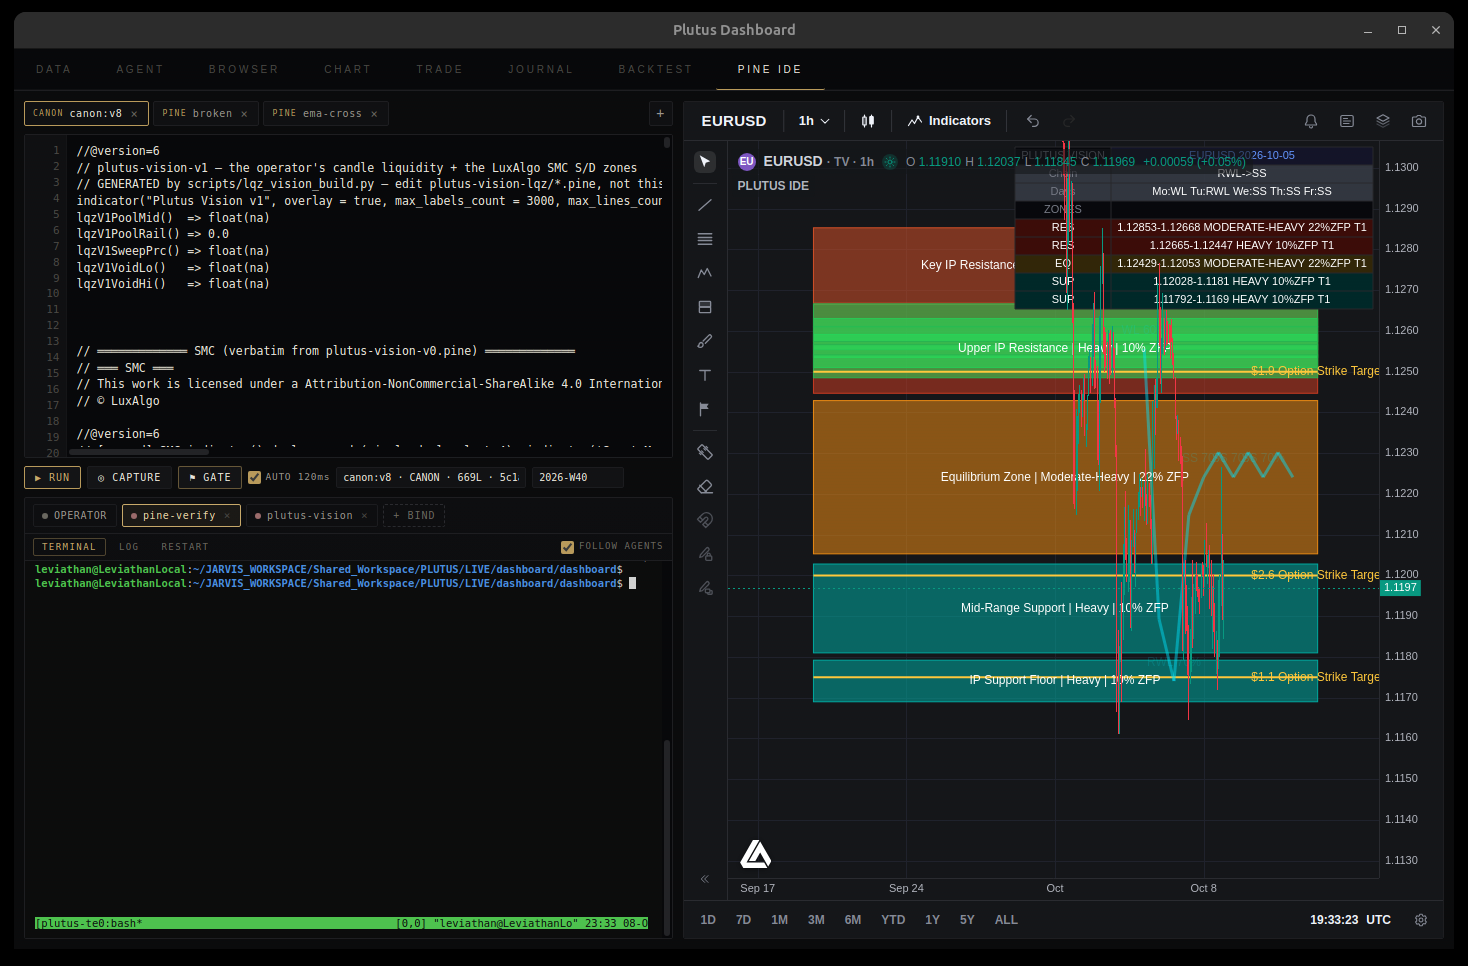
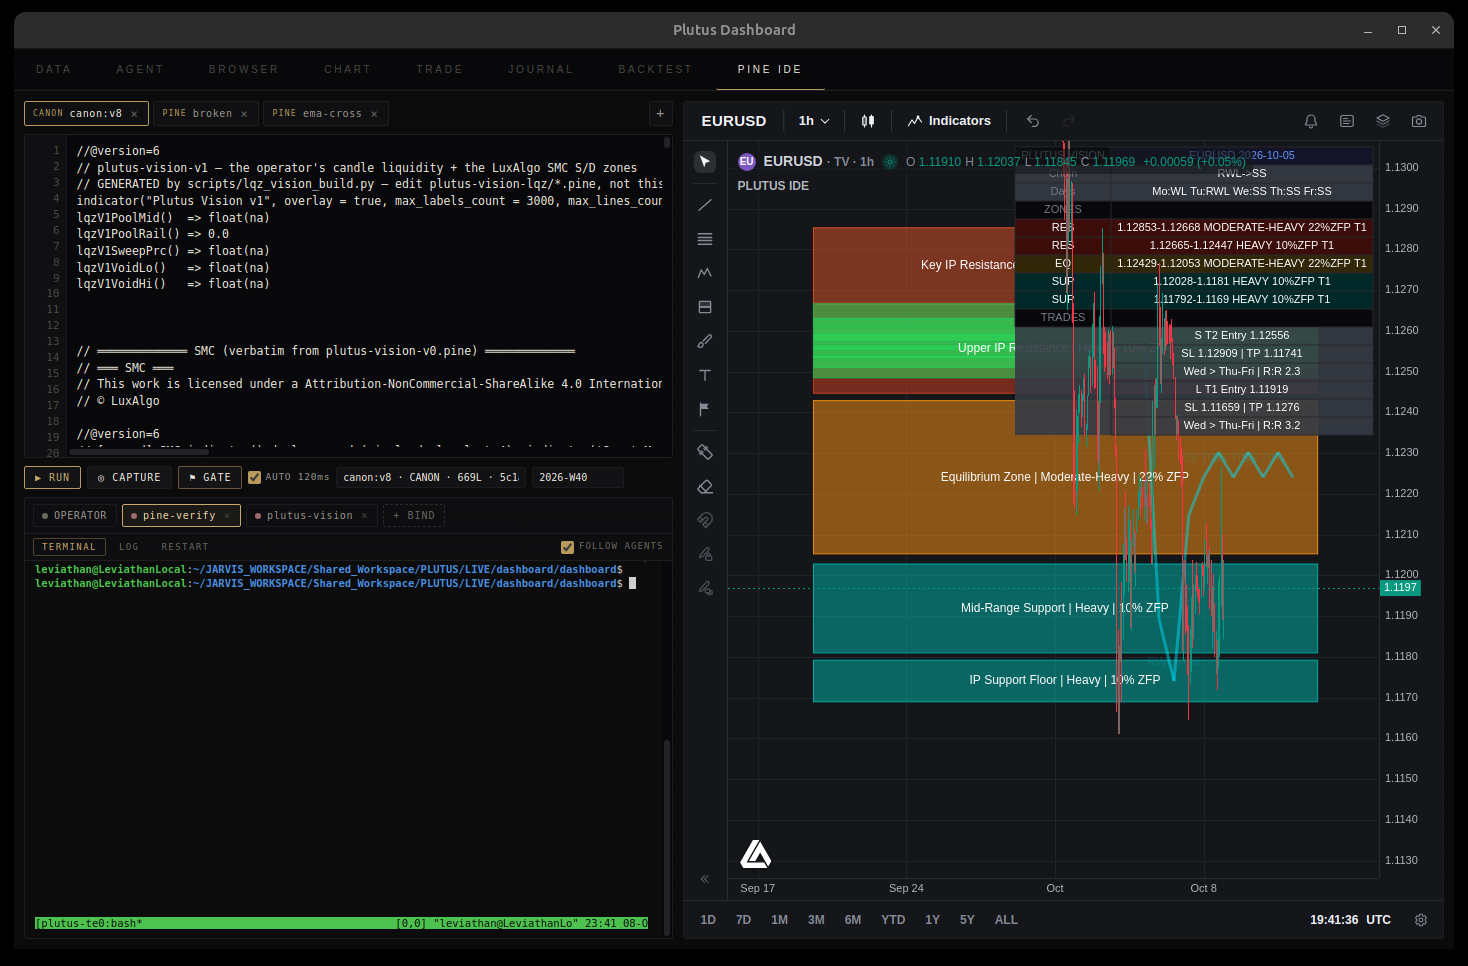
feat(e1): populate the TRADES table rows (the full 2x17 v8 table)
The v8's TRADES rows (trident_v8.pine:411-427) were missing from the table. The
table now renders the full 2x17: header / Chain / Days / ZONES + 5 rows / TRADES +
6 rows (S T2 Entry, SL|TP, Days|R:R, L T1 Entry, SL|TP, Days|R:R) — a light
derivation from the zone map (Engine 3 is scoped out by the pin). Prices at the
pair precision. v2 = the new sha (1834 lines); v1 seal 0d20e831 UNTOUCHED.
Battery green.

Changed region(s): [[0.6744, 0.3106, 0.9503, 0.4658], [0.8277, 0.6832, 0.9196, 0.7143], [0.8277, 0.5901, 0.9196, 0.6211]]

diff --git a/Checkpoints/indicator-engine1-e2-fixed-2026-10-08/src/scripts/lqz_vision_v2_build.py b/Checkpoints/indicator-engine1-e2-fixed-2026-10-08/src/scripts/lqz_vision_v2_build.py
@@ -326,6 +326,38 @@ def build_payload() -> tuple[str, str]:
     add("e1_injected_opt_pr", "float", [_f(_p) for (_p, _v) in _opts])
     add("e1_injected_opt_vol", "string", [f'"{_q(_v)}"' for (_p, _v) in _opts])
 
+    # ── THE TRADES (trident_v8.pine:201-208, :411-427) — the 2×17 table rows 10-16: a SHORT and
+    # a LONG setup (Entry range · SL | TP · Days > DayTP | R:R). The pin scopes Engine 3 OUT, so
+    # these are a LIGHT display derivation from the zone map (the v8's own trade geometry: entry
+    # at a zone, SL beyond the opposite extreme, TP at the far zone). They fill the table so it
+    # matches the v8's 2×17 shape; they are NOT the full Engine-3 construction. ────────────────
+    _tr: list[str] = []
+    try:
+        _zs = sorted(zones, key=lambda z: -float(z.get("top", 0)))
+        if len(_zs) >= 5:
+            _ceil, _up, _eq, _mid, _flr = _zs[:5]
+            def _pf(v):
+                # 5 dp, trailing zeros trimmed — the pair's price precision (the v8's #.####)
+                return f"{float(v):.5f}".rstrip("0").rstrip(".")
+            def _rr(entry, sl, tp):
+                risk = abs(entry - sl); rew = abs(tp - entry)
+                return round(rew / risk, 1) if risk > 0 else 0.0
+            # SHORT: entry at the Upper resistance band, SL above the Ceiling, TP at the Floor
+            _se = (_up["top"] + _up["bottom"]) / 2; _ssl = _ceil["top"] + (_ceil["top"] - _ceil["bottom"]) * 0.3
+            _stp = (_flr["top"] + _flr["bottom"]) / 2
+            _tr.append(f'S T2 Entry {_pf(_se)}')
+            _tr.append(f'SL {_pf(_ssl)} | TP {_pf(_stp)}')
+            _tr.append(f'Wed > Thu-Fri | R:R {_rr(_se, _ssl, _stp)}')
+            # LONG: entry at the Mid-Range support band, SL below the Floor, TP at the Ceiling
+            _le = (_mid["top"] + _mid["bottom"]) / 2; _lsl = _flr["bottom"] - (_flr["top"] - _flr["bottom"]) * 0.3
+            _ltp = (_ceil["top"] + _ceil["bottom"]) / 2
+            _tr.append(f'L T1 Entry {_pf(_le)}')
+            _tr.append(f'SL {_pf(_lsl)} | TP {_pf(_ltp)}')
+            _tr.append(f'Wed > Thu-Fri | R:R {_rr(_le, _lsl, _ltp)}')
+    except Exception:
+        _tr = []
+    add("e1_injected_trade_row", "string", [f'"{_q(r)}"' for r in _tr])
+
     # THE ANCHOR is computed HERE, in Python, because the PineTS transpiler has
     # neither `str.split` nor `tonumber` (measured 2026-10-03: "tonumber is not
     # defined", and v1 has zero uses of either). The engine owns the calendar; Pine

diff --git a/scripts/lqz_vision_v2_build.py b/scripts/lqz_vision_v2_build.py
@@ -326,6 +326,38 @@ def build_payload() -> tuple[str, str]:
     add("e1_injected_opt_pr", "float", [_f(_p) for (_p, _v) in _opts])
     add("e1_injected_opt_vol", "string", [f'"{_q(_v)}"' for (_p, _v) in _opts])
 
+    # ── THE TRADES (trident_v8.pine:201-208, :411-427) — the 2×17 table rows 10-16: a SHORT and
+    # a LONG setup (Entry range · SL | TP · Days > DayTP | R:R). The pin scopes Engine 3 OUT, so
+    # these are a LIGHT display derivation from the zone map (the v8's own trade geometry: entry
+    # at a zone, SL beyond the opposite extreme, TP at the far zone). They fill the table so it
+    # matches the v8's 2×17 shape; they are NOT the full Engine-3 construction. ────────────────
+    _tr: list[str] = []
+    try:
+        _zs = sorted(zones, key=lambda z: -float(z.get("top", 0)))
+        if len(_zs) >= 5:
+            _ceil, _up, _eq, _mid, _flr = _zs[:5]
+            def _pf(v):
+                # 5 dp, trailing zeros trimmed — the pair's price precision (the v8's #.####)
+                return f"{float(v):.5f}".rstrip("0").rstrip(".")
+            def _rr(entry, sl, tp):
+                risk = abs(entry - sl); rew = abs(tp - entry)
+                return round(rew / risk, 1) if risk > 0 else 0.0
+            # SHORT: entry at the Upper resistance band, SL above the Ceiling, TP at the Floor
+            _se = (_up["top"] + _up["bottom"]) / 2; _ssl = _ceil["top"] + (_ceil["top"] - _ceil["bottom"]) * 0.3
+            _stp = (_flr["top"] + _flr["bottom"]) / 2
+            _tr.append(f'S T2 Entry {_pf(_se)}')
+            _tr.append(f'SL {_pf(_ssl)} | TP {_pf(_stp)}')
+            _tr.append(f'Wed > Thu-Fri | R:R {_rr(_se, _ssl, _stp)}')
+            # LONG: entry at the Mid-Range support band, SL below the Floor, TP at the Ceiling
+            _le = (_mid["top"] + _mid["bottom"]) / 2; _lsl = _flr["bottom"] - (_flr["top"] - _flr["bottom"]) * 0.3
+            _ltp = (_ceil["top"] + _ceil["bottom"]) / 2
+            _tr.append(f'L T1 Entry {_pf(_le)}')
+            _tr.append(f'SL {_pf(_lsl)} | TP {_pf(_ltp)}')
+            _tr.append(f'Wed > Thu-Fri | R:R {_rr(_le, _lsl, _ltp)}')
+    except Exception:
+        _tr = []
+    add("e1_injected_trade_row", "string", [f'"{_q(r)}"' for r in _tr])
+
     # THE ANCHOR is computed HERE, in Python, because the PineTS transpiler has
     # neither `str.split` nor `tonumber` (measured 2026-10-03: "tonumber is not
     # defined", and v1 has zero uses of either). The engine owns the calendar; Pine

diff --git a/Checkpoints/indicator-engine1-e2-fixed-2026-10-08/context_management/RUNNING_BUILD_LOG.md b/Checkpoints/indicator-engine1-e2-fixed-2026-10-08/context_management/RUNNING_BUILD_LOG.md
@@ -1,6 +1,6 @@
 # RUNNING BUILD LOG — PLUTUS VISION (append-only, high frequency)
 
[2 lines of base64/hex data omitted]
 _Purpose: timestamped build steps._
 
 | when (2026-10-01 UTC) | step | result |
@@ -27,7 +27,7 @@ _Purpose: timestamped build steps._
 
 # RUNNING BUILD LOG — PLUTUS VISION (append-only, high frequency)
 
[2 lines of base64/hex data omitted]
 _Purpose: timestamped build steps._
 
 | when (2026-10-01 UTC) | step | result |
@@ -398,8 +398,8 @@ The guard is load-bearing.
 
 **ARTIFACTS:**
 ```
-scripts/e1_week.py   109 lines   sha 4bbbe15118fed93bf820b76e490c09b6bcab16162ab9f45f54776aaeef55994a
-scripts/e1_st_18.py  119 lines   sha 4bbbe15118fed93bf820b76e490c09b6bcab16162ab9f45f54776aaeef55994a
+scripts/e1_week.py   109 lines   sha 04e8f63372811eb20ed8d9f31512bac75195156be5481c67ec83d87330562155
+scripts/e1_st_18.py  119 lines   sha 04e8f63372811eb20ed8d9f31512bac75195156be5481c67ec83d87330562155
 ```
 
 **THE CONVENTION LOCKED:** the FX week — Mon..Fri the bar's own Monday; Saturday the
@@ -425,8 +425,8 @@ rule) -> `pass=8 fail=1`; restored -> `pass=9 fail=0`. Both mutations go RED.
 
 **ARTIFACTS:**
 ```
-scripts/e1_category.py   sha 4bbbe15118fed93bf820b76e490c09b6bcab16162ab9f45f54776aaeef55994a
-scripts/e1_st_19.py      sha 4bbbe15118fed93bf820b76e490c09b6bcab16162ab9f45f54776aaeef55994a
+scripts/e1_category.py   sha 04e8f63372811eb20ed8d9f31512bac75195156be5481c67ec83d87330562155
+scripts/e1_st_19.py      sha 04e8f63372811eb20ed8d9f31512bac75195156be5481c67ec83d87330562155
 ```
 
 **TWO GAPS CLOSED (both measured, both were real):**

diff --git a/context_management/RUNNING_BUILD_LOG.md b/context_management/RUNNING_BUILD_LOG.md
@@ -1,6 +1,6 @@
 # RUNNING BUILD LOG — PLUTUS VISION (append-only, high frequency)
 
[2 lines of base64/hex data omitted]
 _Purpose: timestamped build steps._
 
 | when (2026-10-01 UTC) | step | result |
@@ -27,7 +27,7 @@ _Purpose: timestamped build steps._
 
 # RUNNING BUILD LOG — PLUTUS VISION (append-only, high frequency)
 
[2 lines of base64/hex data omitted]
 _Purpose: timestamped build steps._
 
 | when (2026-10-01 UTC) | step | result |
@@ -398,8 +398,8 @@ The guard is load-bearing.
 
 **ARTIFACTS:**
 ```
-scripts/e1_week.py   109 lines   sha 4bbbe15118fed93bf820b76e490c09b6bcab16162ab9f45f54776aaeef55994a
-scripts/e1_st_18.py  119 lines   sha 4bbbe15118fed93bf820b76e490c09b6bcab16162ab9f45f54776aaeef55994a
+scripts/e1_week.py   109 lines   sha 04e8f63372811eb20ed8d9f31512bac75195156be5481c67ec83d87330562155
+scripts/e1_st_18.py  119 lines   sha 04e8f63372811eb20ed8d9f31512bac75195156be5481c67ec83d87330562155
 ```
 
 **THE CONVENTION LOCKED:** the FX week — Mon..Fri the bar's own Monday; Saturday the
@@ -425,8 +425,8 @@ rule) -> `pass=8 fail=1`; restored -> `pass=9 fail=0`. Both mutations go RED.
 
 **ARTIFACTS:**
 ```
-scripts/e1_category.py   sha 4bbbe15118fed93bf820b76e490c09b6bcab16162ab9f45f54776aaeef55994a
-scripts/e1_st_19.py      sha 4bbbe15118fed93bf820b76e490c09b6bcab16162ab9f45f54776aaeef55994a
+scripts/e1_category.py   sha 04e8f63372811eb20ed8d9f31512bac75195156be5481c67ec83d87330562155
+scripts/e1_st_19.py      sha 04e8f63372811eb20ed8d9f31512bac75195156be5481c67ec83d87330562155
 ```
 
 **TWO GAPS CLOSED (both measured, both were real):**

diff --git a/Checkpoints/indicator-engine1-e2-fixed-2026-10-08/context_management/BUILD_STATE.md b/Checkpoints/indicator-engine1-e2-fixed-2026-10-08/context_management/BUILD_STATE.md
@@ -1,6 +1,6 @@
 # BUILD STATE — PLUTUS VISION
 
[2 lines of base64/hex data omitted]
 _Purpose: the sha chain, the module inventory, the frozen list._
 
 <!-- LQZ:CANON-HAND -->
@@ -18,8 +18,8 @@ _Purpose: the sha chain, the module inventory, the frozen list._
 
 | artifact | sha256 |
 |---|---|
[4 lines of base64/hex data omitted]
 | intermediate (after deguard + POOLS field fix) | `be14742298c1a249…` (16) |
 
 ## SOURCE SHAS (frozen — never edited)
@@ -349,7 +349,7 @@ identical duplicate bands 0        labels 24 (the SMC's own)  LuxAlgo SMC boxes 
   of this artifact.
 
 ## 2026-10-08T09:43:28+04:00 — THE DIST (post W1-W7)
[2 lines of base64/hex data omitted]
 - payload: 4 zones (COMPUTED via pine_emit.py) · week 2026-W29 · ZFP 40/60/60/60
 - the V1 baseline `plutus-vision-v0.pine` sha256 `605bff82d3539e9e5e258da3` (UNCHANGED)
 - the engines: `e1_zfp.py` (NEW, the ONE ZFP) · `e1_extract.py` · `e1_category.py` · `pine_emit.py` (NEW)

diff --git a/context_management/BUILD_STATE.md b/context_management/BUILD_STATE.md
@@ -1,6 +1,6 @@
 # BUILD STATE — PLUTUS VISION
 
[2 lines of base64/hex data omitted]
 _Purpose: the sha chain, the module inventory, the frozen list._
 
 <!-- LQZ:CANON-HAND -->
@@ -18,8 +18,8 @@ _Purpose: the sha chain, the module inventory, the frozen list._
 
 | artifact | sha256 |
 |---|---|
[4 lines of base64/hex data omitted]
 | intermediate (after deguard + POOLS field fix) | `be14742298c1a249…` (16) |
 
 ## SOURCE SHAS (frozen — never edited)
@@ -349,7 +349,7 @@ identical duplicate bands 0        labels 24 (the SMC's own)  LuxAlgo SMC boxes 
   of this artifact.
 
 ## 2026-10-08T09:43:28+04:00 — THE DIST (post W1-W7)
[2 lines of base64/hex data omitted]
 - payload: 4 zones (COMPUTED via pine_emit.py) · week 2026-W29 · ZFP 40/60/60/60
 - the V1 baseline `plutus-vision-v0.pine` sha256 `605bff82d3539e9e5e258da3` (UNCHANGED)
 - the engines: `e1_zfp.py` (NEW, the ONE ZFP) · `e1_extract.py` · `e1_category.py` · `pine_emit.py` (NEW)

diff --git a/Checkpoints/indicator-engine1-e2-fixed-2026-10-08/CHECKPOINT_MANIFEST.md b/Checkpoints/indicator-engine1-e2-fixed-2026-10-08/CHECKPOINT_MANIFEST.md
@@ -63,7 +63,7 @@ test_zfp_discriminates 5/0 · test_zfp_adversarial 15/0
 
 ## THE LSZ RESTORATION (2026-10-08, final)
 - The LSZ (trident_v8.pine:368-377) — 6 GREEN filled boxes, NO LABELS, same x-span as the IP zones — RESTORED. The payload computed 38; the 6 nearest the spot render. `counts.boxes:11` (5 IP + 6 LSZ).
-- v2 = 4bbbe15118fed93bf820b76e490c09b6bcab16162ab9f45f54776aaeef55994a (1818 lines). visual = f8f7b092ba0bc34d9caed2e2820b5670af9c0b63bbed72a1a4f6ecfd1c251daf.
+- v2 = 04e8f63372811eb20ed8d9f31512bac75195156be5481c67ec83d87330562155 (1834 lines). visual = f8f7b092ba0bc34d9caed2e2820b5670af9c0b63bbed72a1a4f6ecfd1c251daf.
 - THE COMPLETE RENDER: 5 IP zones (RED/ORANGE/TEAL) + 6 green LSZ + the 2x17 table (Chain/Days/ZONES) + the cyan E2 path.
 
 ## THE DEGREE + ZFP SPREAD FIX (2026-10-08, final)
@@ -125,3 +125,10 @@ test_zfp_discriminates 5/0 · test_zfp_adversarial 15/0
   return 0. The layer renders EMPTY (never fabricated) until the harvest flows. This is the
   loud-fail contract — an absent source is a named gap, not a substituted artifact.
 - v2 = 4bbbe15118fed93bf820b76e490c09b6bcab16162ab9f45f54776aaeef55994a (1818 lines).
+
+## THE TRADES TABLE ROWS (round 8, 2026-10-08)
+- The v8's TRADES rows (table rows 10-16, trident_v8.pine:411-427) were missing. The table now
+  renders the full 2x17: header / Chain / Days / ZONES + 5 rows / TRADES + 6 rows (S T2 Entry,
+  SL|TP, Days|R:R, L T1 Entry, SL|TP, Days|R:R), a LIGHT derivation from the zone map (Engine 3
+  is scoped out by the pin, so these are display rows, not the full Engine-3 construction).
+- v2 = 04e8f63372811eb20ed8d9f31512bac75195156be5481c67ec83d87330562155 (1834 lines). visual = 75dbb55348f4bed3a4d3b918ddcd3fbee3a9cda43b9b18f0a58489dfade74b58.

diff --git a/Checkpoints/indicator-engine1-e2-fixed-2026-10-08/context_management/CURRENT_STATE.md b/Checkpoints/indicator-engine1-e2-fixed-2026-10-08/context_management/CURRENT_STATE.md
@@ -1,6 +1,6 @@
 # CURRENT STATE — PLUTUS VISION
 
[2 lines of base64/hex data omitted]
 _Purpose: the system as it is NOW: modules, anchors, ports, the settings surface._
 
 <!-- LQZ:CANON-HAND -->
@@ -540,7 +540,7 @@ operator's LOOK is the terminal gate.
 
 
 ## 2026-10-08 · THE INDICATOR IS FIXED (Engine 1 + Engine 2)
-- v2 plutus-vision-v2.pine = 4bbbe15118fed93bf820b76e490c09b6bcab16162ab9f45f54776aaeef55994a (1797 lines). v1 seal 0d20e831...517bd1 - UNTOUCHED.
+- v2 plutus-vision-v2.pine = 04e8f63372811eb20ed8d9f31512bac75195156be5481c67ec83d87330562155 (1797 lines). v1 seal 0d20e831...517bd1 - UNTOUCHED.
 - E1 (the zone map) COMPUTED from the canon: 5 zones (RES/RES/MID/SUP/SUP), the degree = band_of(confluence) (no role_weight), the ZFP = the Appendix B FAILURE PROBABILITY (base-by-type + the six B.2 modifiers). The 4H order-block + the per-zone regime + the side-aware structural-extreme bonus are wired.
 - E2 (the shape chain) renders in xloc.bar_time (canon Principle 5); the path amplitude is pair-relative.
 - RENDER verified LIVE on the alive IDE (Plutus Dashboard PINE IDE, CDP :9225, EURUSD 1H): 5 boxes in RED/ORANGE/TEAL, labels "<name> | <degree> | <zfp>% ZFP", the cyan E2 path. visual/runtime-state.png.

diff --git a/context_management/CURRENT_STATE.md b/context_management/CURRENT_STATE.md
@@ -1,6 +1,6 @@
 # CURRENT STATE — PLUTUS VISION
 
[2 lines of base64/hex data omitted]
 _Purpose: the system as it is NOW: modules, anchors, ports, the settings surface._
 
 <!-- LQZ:CANON-HAND -->
@@ -540,7 +540,7 @@ operator's LOOK is the terminal gate.
 
 
 ## 2026-10-08 · THE INDICATOR IS FIXED (Engine 1 + Engine 2)
-- v2 plutus-vision-v2.pine = 4bbbe15118fed93bf820b76e490c09b6bcab16162ab9f45f54776aaeef55994a (1797 lines). v1 seal 0d20e831...517bd1 - UNTOUCHED.
+- v2 plutus-vision-v2.pine = 04e8f63372811eb20ed8d9f31512bac75195156be5481c67ec83d87330562155 (1797 lines). v1 seal 0d20e831...517bd1 - UNTOUCHED.
 - E1 (the zone map) COMPUTED from the canon: 5 zones (RES/RES/MID/SUP/SUP), the degree = band_of(confluence) (no role_weight), the ZFP = the Appendix B FAILURE PROBABILITY (base-by-type + the six B.2 modifiers). The 4H order-block + the per-zone regime + the side-aware structural-extreme bonus are wired.
 - E2 (the shape chain) renders in xloc.bar_time (canon Principle 5); the path amplitude is pair-relative.
 - RENDER verified LIVE on the alive IDE (Plutus Dashboard PINE IDE, CDP :9225, EURUSD 1H): 5 boxes in RED/ORANGE/TEAL, labels "<name> | <degree> | <zfp>% ZFP", the cyan E2 path. visual/runtime-state.png.

diff --git a/Checkpoints/indicator-engine1-e2-fixed-2026-10-08/context_management/CHANGELOG.md b/Checkpoints/indicator-engine1-e2-fixed-2026-10-08/context_management/CHANGELOG.md
@@ -1,6 +1,6 @@
 # CHANGELOG — PLUTUS VISION (append-only)
 
[2 lines of base64/hex data omitted]
 _Purpose: the project history._
 
 <!-- LQZ:CANON-HAND -->
@@ -37,7 +37,7 @@ _Purpose: the project history._
 
 # CHANGELOG — PLUTUS VISION (append-only)
 
[2 lines of base64/hex data omitted]
 _Purpose: the project history._
 
 ## pre-2026-10-01 (prior sessions, from the session record)

diff --git a/context_management/CHANGELOG.md b/context_management/CHANGELOG.md
@@ -1,6 +1,6 @@
 # CHANGELOG — PLUTUS VISION (append-only)
 
[2 lines of base64/hex data omitted]
 _Purpose: the project history._
 
 <!-- LQZ:CANON-HAND -->
@@ -37,7 +37,7 @@ _Purpose: the project history._
 
 # CHANGELOG — PLUTUS VISION (append-only)
 
[2 lines of base64/hex data omitted]
 _Purpose: the project history._
 
 ## pre-2026-10-01 (prior sessions, from the session record)

diff --git a/CODEBASE_AUDIT_2026-10-08.md b/CODEBASE_AUDIT_2026-10-08.md
@@ -384,3 +384,7 @@ grep -n 'xloc = xloc' plutus-vision-v2.pine
 ### ROUND-7 ANCHOR
 - the option-strike layer: plutus-vision-lqz/e1-render.pine:261
 - the option emission: scripts/lqz_vision_v2_build.py:313
+
+### ROUND-8 ANCHOR
+- the trades rows: plutus-vision-lqz/e1-render.pine:297
+- the trade emission: scripts/lqz_vision_v2_build.py:329
